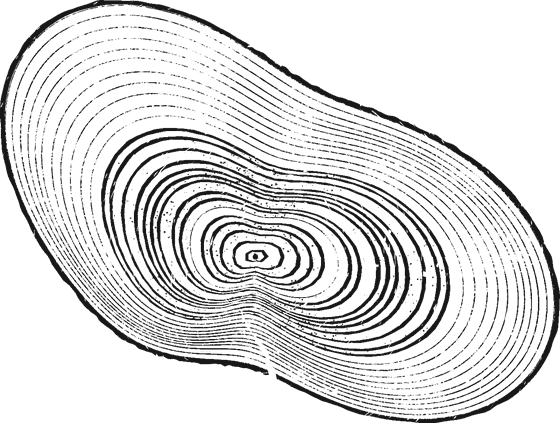
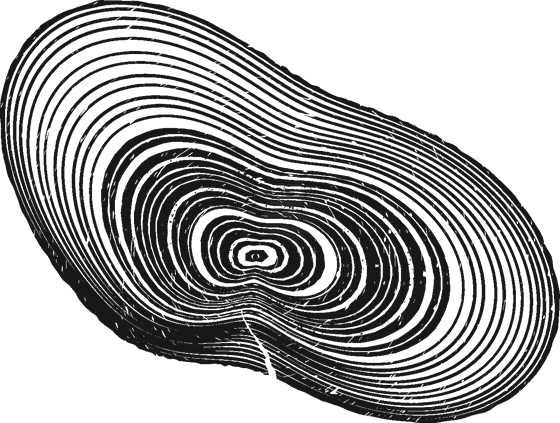
Well Rounded: every wood in heavy ink, as oak and ash print
The drawn woods (cherry, maple, birch, olive, and the conifers) printed
as thin bands and lines on paper beside the real-wood oak and ash. Most
of each year now takes the ink, the paper only the gap between years;
their fine years are heavier lines; none printed paler for a pale wood.
The choosing slices pressed again.

Claude-Session: https://claude.ai/code/session_01WhGxUDQ2nhT1B8pKnZrdq5

diff --git a/src/rings/press.ts b/src/rings/press.ts
@@ -223,15 +223,15 @@ const SPEC: Record<Kind, {
   /** Its years' lines and tone, drawn (diffuse and conifer). */
   line: number; tone: number; resin: boolean;
 }> = {
-  oak: { family: 'ring', bark: FISSURED, barkCss: [3, 0.045, 9], amp: 1, width: 1, even: 1, line: 0.8, tone: 1, resin: false },
-  ash: { family: 'ring', bark: { ...FISSURED, mean: 5, deep: [0.25, 0.6, 1] }, barkCss: [2.5, 0.04, 8], amp: 1, width: 1.05, even: 1, line: 0.8, tone: 1, resin: false },
-  cherry: { family: 'diffuse', bark: { ...PLATES, lumps: 90, mean: 10 }, barkCss: [2, 0.03, 6], amp: 1.1, width: 0.9, even: 1, line: 0.5, tone: 0.9, resin: false },
-  maple: { family: 'diffuse', bark: { ...FISSURED, lumps: 120, mean: 9, deep: [0.1, 0.5, 1.5] }, barkCss: [2.5, 0.035, 7], amp: 1, width: 1, even: 1, line: 0.34, tone: 0.72, resin: false },
-  birch: { family: 'diffuse', bark: 'papery', barkCss: [1.6, 0.02, 3.5], amp: 1, width: 1, even: 1, line: 0.38, tone: 0.78, resin: false },
-  pine: { family: 'conifer', bark: PLATES, barkCss: [3.5, 0.055, 11], amp: 1, width: 1, even: 1, line: 0.7, tone: 1, resin: true },
-  redwood: { family: 'conifer', bark: { lumps: 220, plate: false, mean: 4, deep: [0.3, 0.6, 1], wide: 0.7 }, barkCss: [5, 0.08, 16], amp: 0.7, width: 1.3, even: 1.2, line: 0.6, tone: 0.9, resin: false },
-  bristlecone: { family: 'conifer', bark: { ...PLATES, lumps: 60, mean: 15 }, barkCss: [2, 0.03, 6], amp: 1.8, width: 0.45, even: 0.3, line: 0.75, tone: 1, resin: true },
-  olive: { family: 'diffuse', bark: { lumps: 160, plate: false, mean: 11, deep: [0.1, 0.4, 1], wide: 1 }, barkCss: [1.5, 0.02, 4], amp: 2.2, width: 0.8, even: 0.15, line: 0.45, tone: 0.85, resin: false },
+  oak: { family: 'ring', bark: FISSURED, barkCss: [3, 0.045, 9], amp: 1, width: 1, even: 1, line: 0.85, tone: 1, resin: false },
+  ash: { family: 'ring', bark: { ...FISSURED, mean: 5, deep: [0.25, 0.6, 1] }, barkCss: [2.5, 0.04, 8], amp: 1, width: 1.05, even: 1, line: 0.85, tone: 1, resin: false },
+  cherry: { family: 'diffuse', bark: { ...PLATES, lumps: 90, mean: 10 }, barkCss: [2, 0.03, 6], amp: 1.1, width: 0.9, even: 1, line: 0.85, tone: 1, resin: false },
+  maple: { family: 'diffuse', bark: { ...FISSURED, lumps: 120, mean: 9, deep: [0.1, 0.5, 1.5] }, barkCss: [2.5, 0.035, 7], amp: 1, width: 1, even: 1, line: 0.85, tone: 1, resin: false },
+  birch: { family: 'diffuse', bark: 'papery', barkCss: [1.6, 0.02, 3.5], amp: 1, width: 1, even: 1, line: 0.85, tone: 1, resin: false },
+  pine: { family: 'conifer', bark: PLATES, barkCss: [3.5, 0.055, 11], amp: 1, width: 1, even: 1, line: 0.85, tone: 1, resin: true },
+  redwood: { family: 'conifer', bark: { lumps: 220, plate: false, mean: 4, deep: [0.3, 0.6, 1], wide: 0.7 }, barkCss: [5, 0.08, 16], amp: 0.7, width: 1.3, even: 1.2, line: 0.85, tone: 1, resin: false },
+  bristlecone: { family: 'conifer', bark: { ...PLATES, lumps: 60, mean: 15 }, barkCss: [2, 0.03, 6], amp: 1.8, width: 0.45, even: 0.3, line: 0.85, tone: 1, resin: true },
+  olive: { family: 'diffuse', bark: { lumps: 160, plate: false, mean: 11, deep: [0.1, 0.4, 1], wide: 1 }, barkCss: [1.5, 0.02, 4], amp: 2.2, width: 0.8, even: 0.15, line: 0.85, tone: 1, resin: false },
 };
 const KINDS = Object.keys(SPEC) as Kind[];
 /** (Each wood answers the same loop its own way, never said: found by drawing.) */
@@ -1660,8 +1660,8 @@ function drawPrint(v: View): void {
       let lastR = scr(meanR(i - 1));
       for (let k = i; k <= j; k++) {
         const R = scr(meanR(k));
-        if (R - lastR < (ring ? 1.9 : 2.8 + 1.4 * h1(k * 1.37 + 0.5)) * px * Z) continue;
-        g.lineWidth = (conifer ? 0.9 : 0.7) * (0.8 + 0.4 * h1(k * 3.7)) * px * Z;
+        if (R - lastR < (ring ? 1.9 : 2.6 + 1.2 * h1(k * 1.37 + 0.5)) * px * Z) continue;
+        g.lineWidth = (conifer ? 1.9 : 1.75) * (0.8 + 0.4 * h1(k * 3.7)) * px * Z;
         lastR = R; ringPath(v, barkOf(k)); g.stroke();
       }
       i = j;
@@ -1675,11 +1675,12 @@ function drawPrint(v: View): void {
       // How much of the year takes the ink (its latewood): about half; never under a pixel.
       // (Pine's latewood is a crisp band of about a third; birch marks its year with only a thin line.)
       const w = wPx(i);
-      const share = !ring && !conifer ? Math.min(0.5, Math.max(0.1, 1.5 / Math.max(1, w)))
-        : conifer ? Math.min(kind === 'redwood' ? 0.35 : 0.5, Math.max(kind === 'redwood' ? 0.1 : 0.16, 0.9 / Math.max(1, w) + (kind === 'redwood' ? 0.08 : 0.14)))
+      // (Heavy ink, as the real woods print: most of each year takes the ink, the paper only the gap between.)
+      const share = !ring && !conifer ? Math.min(0.78, Math.max(0.55, 1.1 / Math.max(1, w) + 0.55))
+        : conifer ? Math.min(0.78, Math.max(0.5, 1.1 / Math.max(1, w) + 0.5))
         : Math.min(0.75, Math.max(0.45, 1.1 / Math.max(1, w) + 0.45));
       // (A conifer's latewood: wider and darker for an unhurried day, thin and pale for a hurried one.)
-      const calm = conifer ? calmOf(i) : 0.5, cshare = conifer ? Math.min(0.85, share * (0.35 + 1.3 * calm)) : share;
+      const calm = conifer ? calmOf(i) : 0.5, cshare = conifer ? Math.min(0.88, share * (0.6 + 0.8 * calm)) : share;
       const bandIn = (a: number) => outer(a) - cshare * (outer(a) - inner(a));
       const tone = (1 - 0.16 * smooth((i - (n - 9)) / 8) * smooth((n - 12) / 8)) * sp.tone, fine = w < 6, mr = meanR(i);
       // The rays crossing this ring: the broad ones always (hairlines); among fine rings, the fine ones too
@@ -1704,7 +1705,7 @@ function drawPrint(v: View): void {
         }
         g.closePath();
         // (The ink a little starved now and then.)
-        g.fillStyle = ink((0.8 + 0.2 * h1(seed * 0.37)) * tone * (conifer ? 0.5 + 0.5 * calm : 1)); g.fill();
+        g.fillStyle = ink((0.8 + 0.2 * h1(seed * 0.37)) * tone * (conifer ? 0.75 + 0.25 * calm : 1)); g.fill();
       };
       if (live.length < 2) brick(0, TAU, i * 101);
       else for (let j = 0; j < live.length; j++) {
